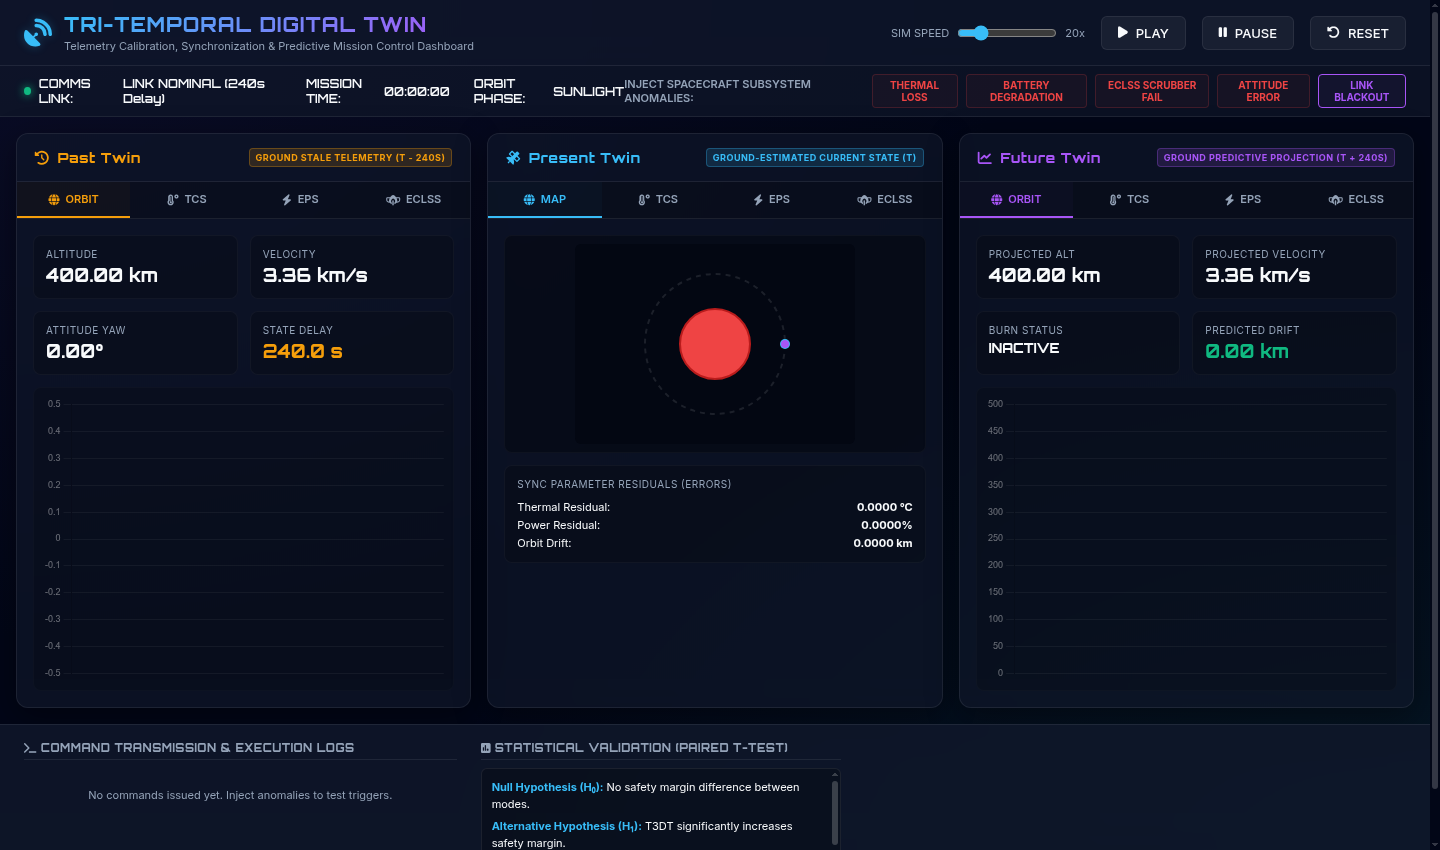
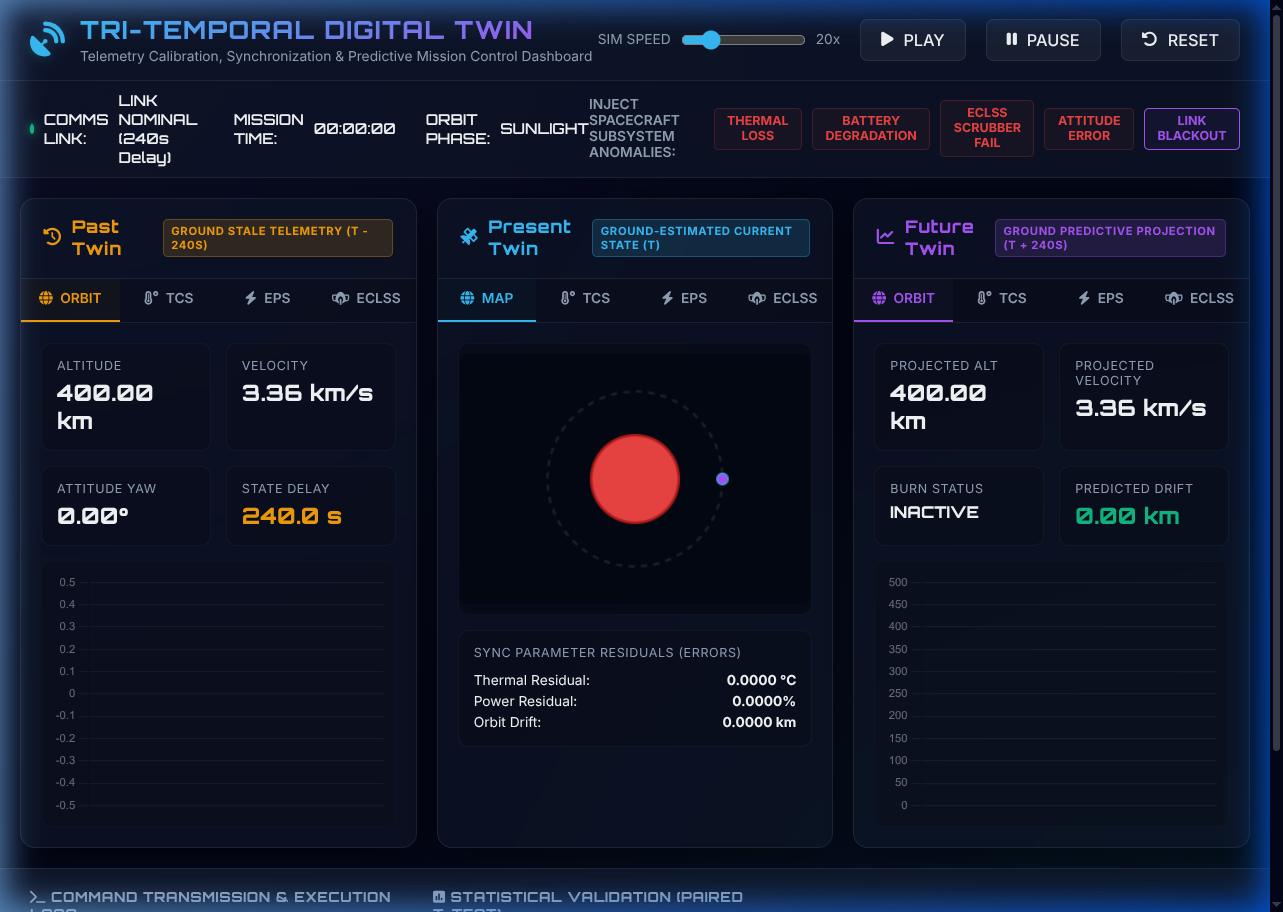
Replace static screenshots with interactive browser captures
- Capture real interactive screenshots via browser automation:
  overview (initial load), running (simulation active with orbit motion),
  anomaly (battery degradation injected), TCS tab, EPS tab
- Regenerate dashboard_demo.gif from 5 real interaction frames (747 KB)
- Remove stale screenshot_orbit.png (was identical to overview)
- Update README.md Dashboard section with 3 screenshots + animated GIF
- Update repo structure listing in README

diff --git a/Tri-Temporal-Digital-Twin/README.md b/Tri-Temporal-Digital-Twin/README.md
@@ -70,11 +70,19 @@ By bridging these three temporal zones, ground operators can detect anomalies ea
 
 ![T3DT Mission Control Dashboard](docs/screenshot_overview.png)
 
-*The Tri-Temporal Mission Control Dashboard — showing the three synchronized twin panes (Past, Present, Future), real-time orbital map, subsystem telemetry tabs, anomaly injection controls, and statistical validation panel.*
+*Initial dashboard state — three synchronized twin panes (Past, Present, Future), real-time orbital map, subsystem telemetry tabs, anomaly injection controls, and the statistical validation panel.*
+
+![T3DT Simulation Running](docs/screenshot_running.png)
+
+*Simulation running — mission time advancing with live telemetry, the spacecraft orbiting Mars, and sync parameter residuals updating in real time.*
+
+![T3DT EPS Tab with Battery Degradation](docs/screenshot_eps.png)
+
+*EPS subsystem tab after injecting a Battery Degradation anomaly — showing the SOC drop from ~95% to ~62%, the battery energy curve, and the POWER_SHED command execution in the log.*
 
 ![T3DT Dashboard Demo](docs/dashboard_demo.gif)
 
-*Live simulation demo — the Past Twin (amber) shows stale historical telemetry at T−240s, the Present Twin (blue) shows the dead-reckoned current state with an orbital map, and the Future Twin (purple) projects the state at T+240s to enable preemptive command generation.*
+*Animated walkthrough — overview → simulation running → anomaly injection → TCS tab → EPS tab with battery degradation visible.*
 
 ---
 
@@ -116,7 +124,8 @@ Tri-Temporal-Digital-Twin/
 ├── docs/                     # Dashboard screenshots and animated demo GIF
 │   ├── screenshot_overview.png
 │   ├── screenshot_running.png
-│   ├── screenshot_orbit.png
+│   ├── screenshot_anomaly.png
+│   ├── screenshot_tcs.png
 │   ├── screenshot_eps.png
 │   └── dashboard_demo.gif
 └── README.md                 # This file
